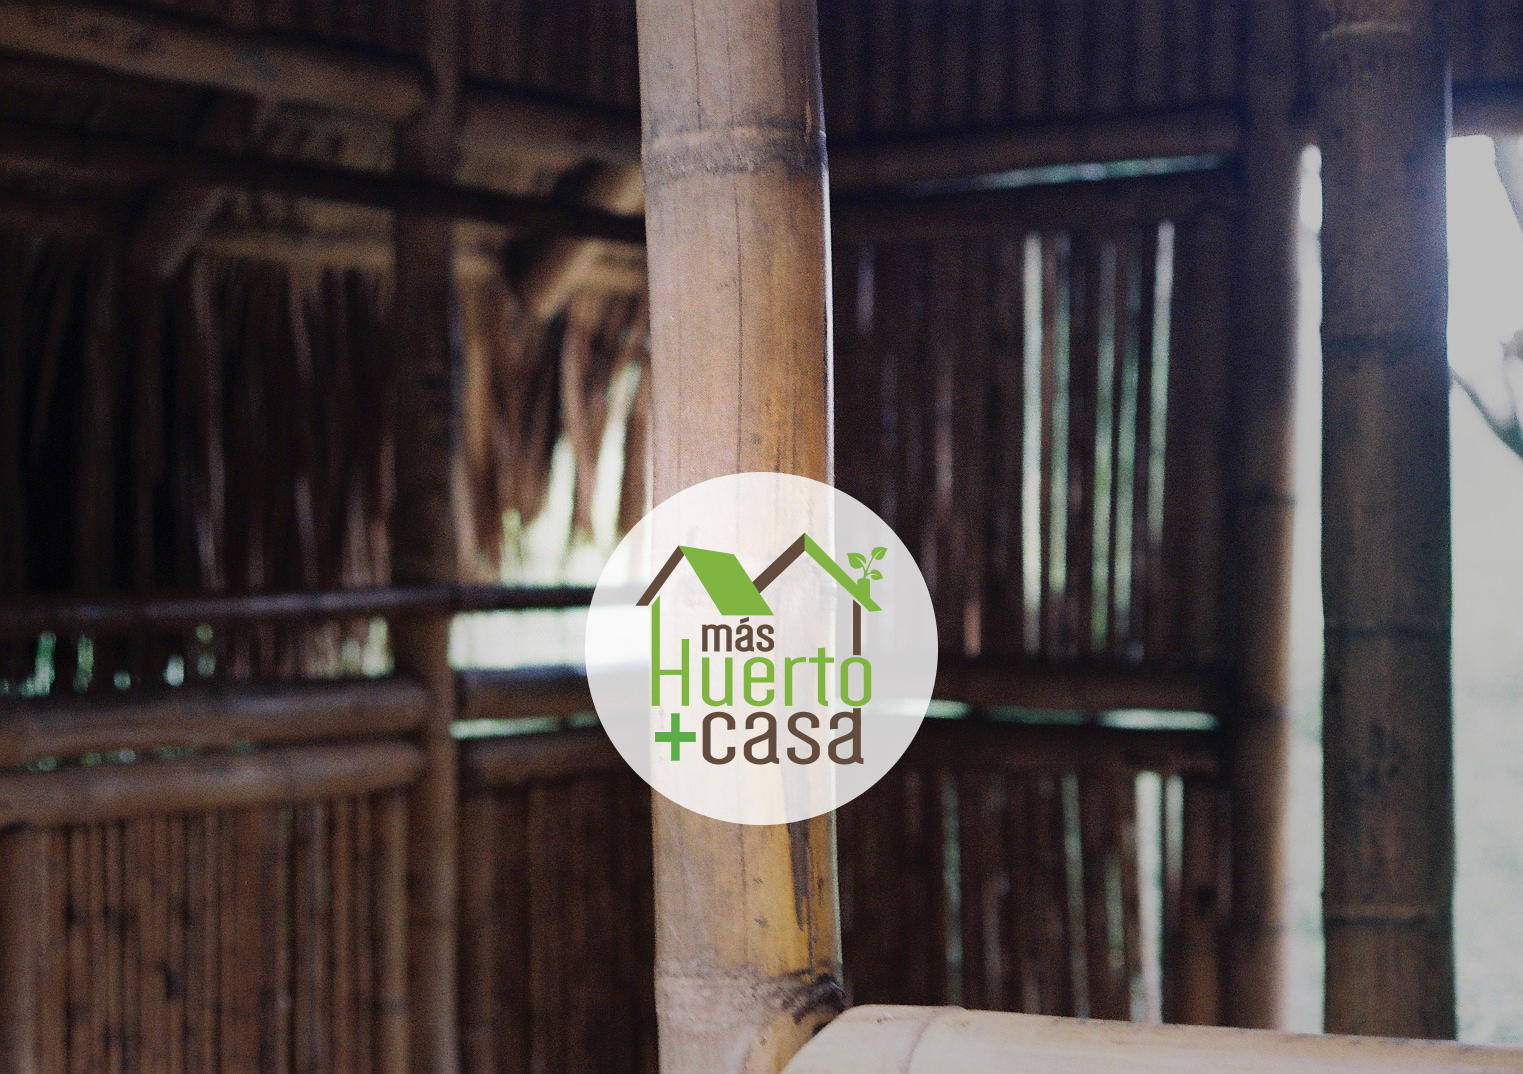
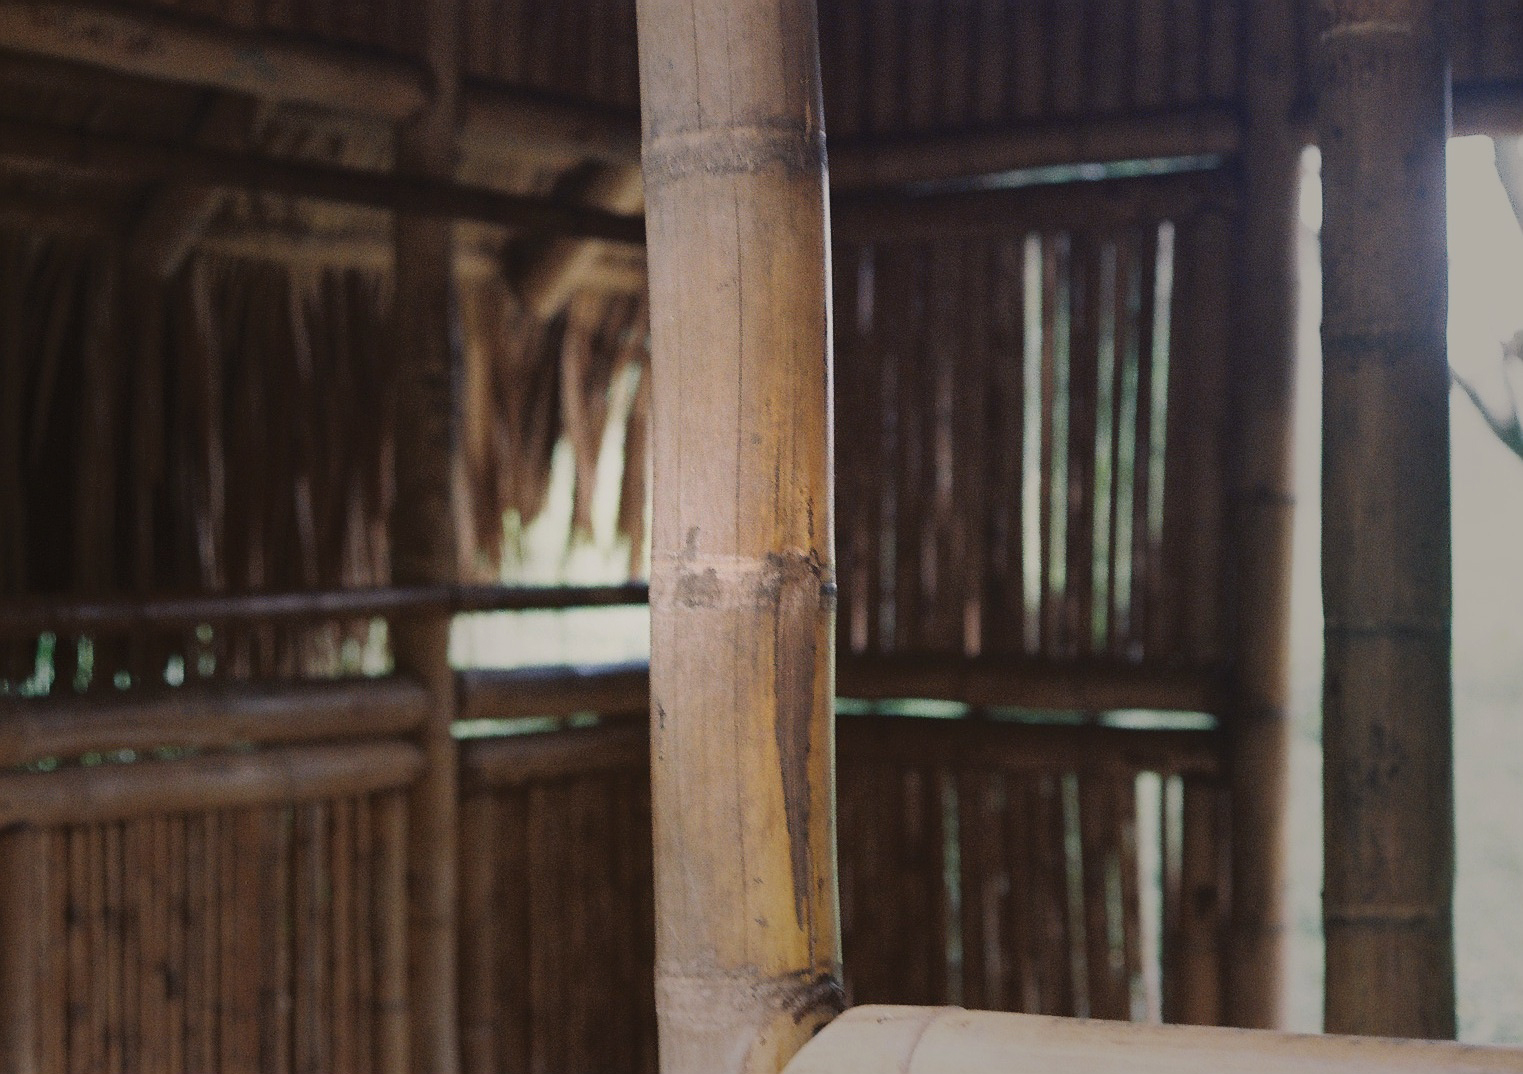
Arreglos en interfaz

diff --git a/public/css/important.css b/public/css/important.css
@@ -140,3 +140,7 @@ h4 {
 img.youtube-thumb { bottom: 0; display: block; left: 0; margin: auto; max-width: 100%; width: 100%; position: absolute; right: 0; top: 0; height: auto }
 div.play-button { height: 72px; width: 72px; left: 50%; top: 50%; margin-left: -36px; margin-top: -36px; position: absolute; background: url("http://i.imgur.com/TxzC70f.png") no-repeat; }
 #youtube-iframe { width: 100%; height: 100%; position: absolute; top: 0; left: 0; }
+
+.logo{
+    margin-top: 40px;
+}

diff --git a/resources/views/home.blade.php b/resources/views/home.blade.php
@@ -7,13 +7,19 @@
         <!-- Header -->
         <div id="header">
 
+            <!-- Inner -->
+            <div class="inner">
+                <image class="logo" src="../images/logohome.png"></image>
+                <footer>
+                    <a href="#banner"><i class="logo fa fa-angle-down fa-5x"></i></a>
+                </footer>
 
+            </div>
 
 
             @include('header')
 
         </div>
-        <section></section>
 
         <!-- Banner -->
         <section id="banner">
@@ -29,7 +35,6 @@
                 </div>
             </header>
         </section>
-        <section></section>
 
         <!-- Carousel -->
         {{--<section class="carousel">--}}
@@ -120,9 +125,9 @@
 
         <!-- Main -->
 
-        <div class="wrapper style1">
+        <section id="banner" class="wrapper style1">
 
-            <section id="features" class="container special">
+            {{--<section id="features" class="container special">--}}
 
                 <article id="main" class="container special">
                     <header>
@@ -136,13 +141,13 @@
                     </footer>
                     {{--<a href="#" class="image featured"><img src="images/pic06.jpg" alt="" /></a>--}}
                 </article>
-            </section>
-        </div>
+            {{--</section>--}}
+        </section>
 
         <!-- Features -->
-        <div class="wrapper style1">
+        <section id="banner" class="wrapper style1">
 
-            <section id="features" class="container special">
+            {{--<section id="features" class="container special">--}}
                 <header>
                     <h2 class="titulo">{{Lang::get('home.whoTitle')}}</h2>
                 </header>
@@ -169,21 +174,19 @@
                         {{--</header>--}}
                     {{--</article>--}}
                 </div>
-            </section>
+            {{--</section>--}}
 
-        </div>
+        </section>
     </div>
 
 
-    <div class="wrapper style1">
+    <section id="banner" class="wrapper style1">
 
-        <section id="features" class="container special">
-            <header>
+            <header style="text-align: center">
                 <a class="twitter-timeline" href="https://twitter.com/solarduniandes" data-widget-id="611942708815527940">Tweets {{Lang::get('home.by')}} @solarduniandes</a>
             </header>
-        </section>
 
-    </div>
+    </section>
 
 
     <script>!function(d,s,id){var js,fjs=d.getElementsByTagName(s)[0],p=/^http:/.test(d.location)?'http':'https';if(!d.getElementById(id)){js=d.createElement(s);js.id=id;js.src=p+"://platform.twitter.com/widgets.js";fjs.parentNode.insertBefore(js,fjs);}}(document,"script","twitter-wjs");</script>
